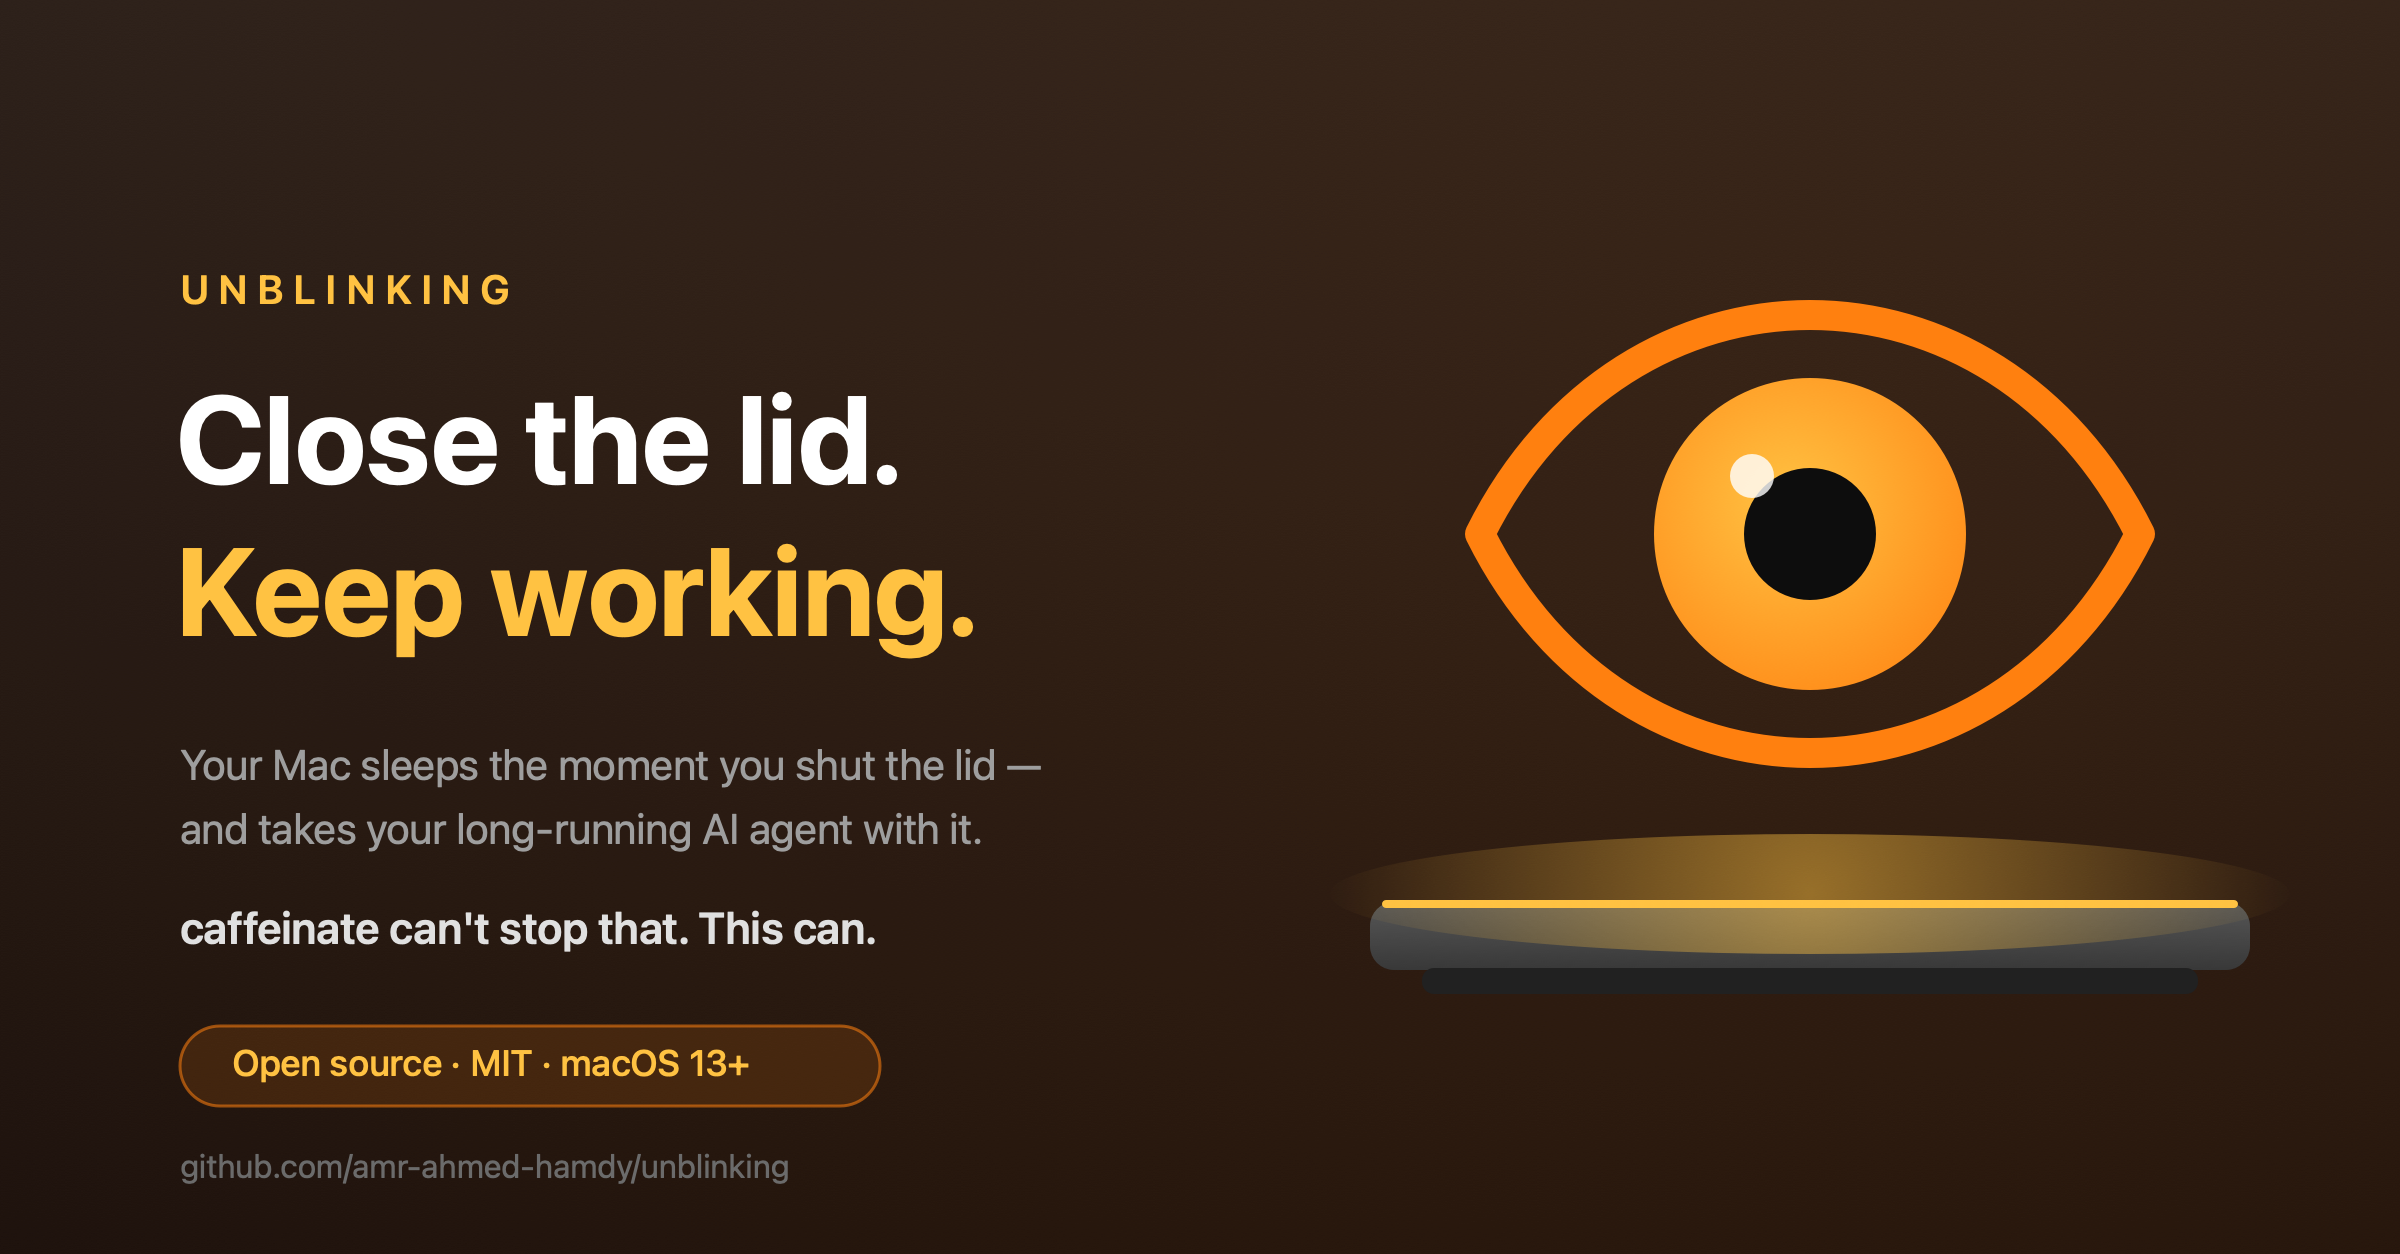
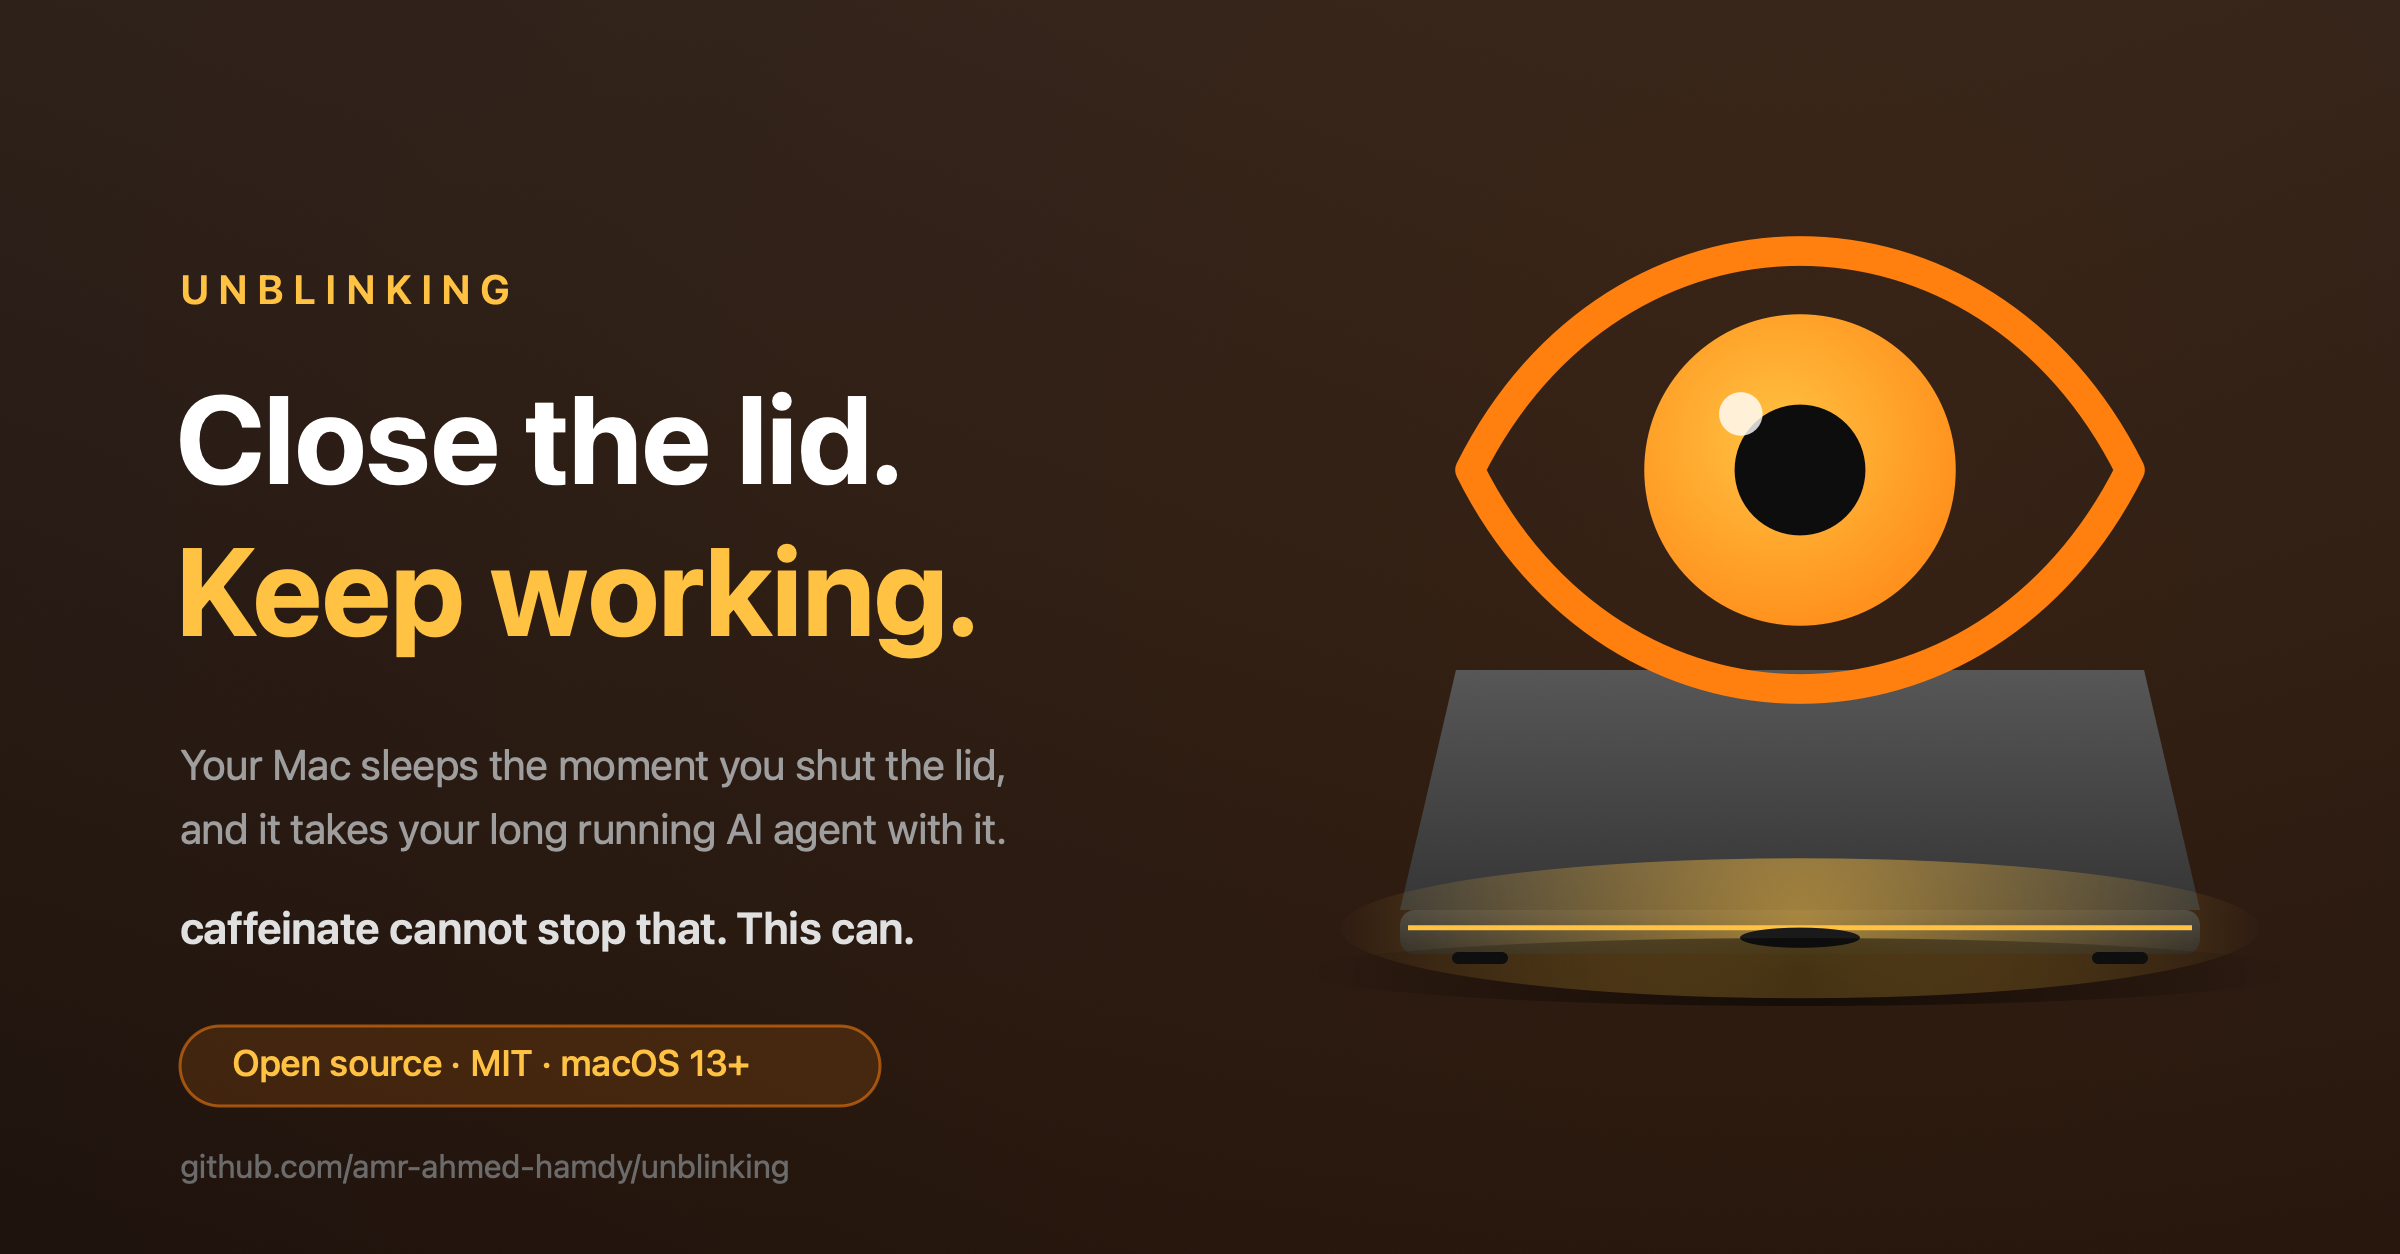
Drop the two minute measurement, and remove dashes from the prose
The published figure was a 156 second run. That proves the mechanism,
the machine slept without the app and did not with it, but says nothing
about endurance, which is what someone running a four hour agent
actually wants to know. Quoting it invites the obvious objection.

Replaced with the method and the qualitative result, plus a pointer to
Scripts/lidtest.sh for a long run. A real figure goes back in once an
endurance run completes.

Also rewrote every sentence that leaned on an em dash, and corrected the
Permissions anchor that the heading change broke. Test count and badge
brought up to 71.

Changed region(s): [[0.5625, 0.1866, 0.9375, 0.8086], [0.1875, 0.7153, 0.375, 0.7775], [0.0938, 0.6531, 0.4375, 0.6842]]

diff --git a/README.md b/README.md
@@ -4,7 +4,7 @@
 
 # Unblinking
 
-**Keep your Mac awake — including with the lid closed.**
+**Keep your Mac awake, including with the lid closed.**
 
 The `caffeinate` command can't do that. This app can.
 
@@ -12,7 +12,7 @@ The `caffeinate` command can't do that. This app can.
 [![Swift](https://img.shields.io/badge/Swift-5.9-F05138?logo=swift&logoColor=white)](https://swift.org)
 [![Apple Silicon](https://img.shields.io/badge/Apple%20Silicon-native-000000?logo=apple&logoColor=white)](https://support.apple.com/en-us/HT211814)
 [![License](https://img.shields.io/badge/License-MIT-blue.svg)](LICENSE)
-[![Tests](https://img.shields.io/badge/tests-67%20passing-brightgreen)](#testing)
+[![Tests](https://img.shields.io/badge/tests-71%20passing-brightgreen)](#testing)
 
 <img src="assets/menu.png" width="480" alt="Unblinking menu bar app showing its menu">
 
@@ -23,7 +23,7 @@ The `caffeinate` command can't do that. This app can.
 ## Why this exists
 
 If you've ever run `caffeinate` in a terminal, closed your MacBook, and come back to find
-your job dead — this is why.
+your job dead, this is why.
 
 **`caffeinate` cannot keep a MacBook awake with the lid closed. It never could.**
 
@@ -39,7 +39,7 @@ The only software override is the system-wide `SleepDisabled` flag, which needs 
 sudo pmset -a disablesleep 1
 ```
 
-Unblinking wraps both mechanisms behind a single eye in your menu bar, and — critically —
+Unblinking wraps both mechanisms behind a single eye in your menu bar and, critically,
 makes sure that flag always gets turned back off.
 
 The second problem it solves is subtler: with `caffeinate` in a terminal, **nothing tells
@@ -53,12 +53,12 @@ that is either shut or wide open removes that entire class of mistake.
 | | |
 |---|---|
 | 👁 **One-click toggle** | Left-click the eye. That's it. |
-| 💤 **Real closed-lid support** | Keeps working when you shut the lid — the thing `caffeinate` can't do |
+| 💤 **Real closed-lid support** | Keeps working when you shut the lid, the thing `caffeinate` can't do |
 | 🔆 **Impossible to miss** | A shut eye when off; an open, breathing eye when on |
 | ⏱ **Timed sessions** | 15m / 30m / 1h / 2h / 4h / indefinitely, with a live countdown |
 | 🔋 **Battery guards** | Never / turn off when unplugged / turn off below a threshold |
 | ⚠ **Stray process detection** | Finds `caffeinate` started elsewhere and lets you stop it |
-| 🔒 **Minimal privileges** | One admin prompt, ever — scoped to exactly two commands |
+| 🔒 **Minimal privileges** | One admin prompt, ever, scoped to exactly two commands |
 | 🧹 **Never leaves a mess** | Cleans up on quit, on crash, and on next launch |
 | 🚀 **Launch at login** | Modern `SMAppService` registration |
 | ♿ **Considerate** | Menu bar item is labelled for VoiceOver and reports its state; respects Reduce Motion |
@@ -74,7 +74,7 @@ that is either shut or wide open removes that entire class of mistake.
 
 The states are deliberately lopsided. Off is a monochrome *template* image, so macOS tints
 it like every other menu bar icon and it recedes. The active states are full colour with a
-halo that breathes — motion catches peripheral vision, which is exactly what you need when
+halo that breathes. Motion catches peripheral vision, which is exactly what you need when
 you've forgotten it's running.
 
 Urgency is carried by colour *and* tempo. Ordinary awake breathes orange over three
@@ -82,7 +82,7 @@ seconds; closed-lid mode breathes red in half that time, because it is the state
 disables system sleep outright and can flatten a battery in a closed bag.
 
 The eye deliberately never blinks. A shut-eye frame is pixel-for-pixel the off state, so a
-blinking icon would flash "asleep" every few seconds — precisely the confusion this app
+blinking icon would flash "asleep" every few seconds, precisely the confusion this app
 exists to remove.
 
 ### Choosing how loud it is
@@ -97,7 +97,7 @@ icon** offers three levels. Each adds exactly one signal to the one before it:
 | **Vivid** *(default)* | shut eye | orange eye, breathing | red eye, breathing at 2× |
 
 Subtle is a monochrome template image throughout, so macOS tints it exactly like every
-other menu bar icon — pick it if you want Unblinking to disappear into the bar. Vivid is
+other menu bar icon. Pick it if you want Unblinking to disappear into the bar. Vivid is
 the default because the app exists to stop you forgetting.
 
 **Reduce Motion overrides the choice.** If it's enabled in System Settings › Accessibility,
@@ -110,13 +110,13 @@ wins.
 
 Requires **macOS 13 (Ventura) or later**. Apple Silicon and Intel both supported.
 
-### Option A — download the release
+### Option A: download the release
 
 1. Download `Unblinking.dmg` from [Releases](https://github.com/amr-ahmed-hamdy/unblinking/releases)
 2. Open the DMG and drag **Unblinking** into **Applications**
 3. Eject the DMG, then open **Unblinking** from Applications
 4. An eye appears at the right-hand end of your menu bar. There is no Dock icon and no
-   window — the menu bar is the whole app
+   window. The menu bar is the whole app
 
 > [!IMPORTANT]
 > **Unblinking is not notarized**, so macOS will say it "cannot be opened because Apple
@@ -125,22 +125,22 @@ Requires **macOS 13 (Ventura) or later**. Apple Silicon and Intel both supported
 >
 > Two ways past it, once:
 >
-> **Terminal** — fastest, and this is a terminal-shaped audience:
+> **Terminal.** Fastest, and this is a terminal shaped audience:
 >
 > ```bash
 > xattr -dr com.apple.quarantine /Applications/Unblinking.app
 > ```
 >
-> **Or the GUI** — **System Settings › Privacy & Security**, scroll to Security, click
+> **Or the GUI**: **System Settings › Privacy & Security**, scroll to Security, click
 > **Open Anyway** next to the Unblinking message, then confirm. macOS 15 removed the old
 > right-click → Open shortcut, so this is the only clickable route.
 >
 > What that flag actually is: macOS tags *downloaded* files with `com.apple.quarantine`,
 > and Gatekeeper's dialog fires on that tag alone. Removing it is exactly what "Open
-> Anyway" does. Apps you build yourself are never tagged — which is why **Option B below
+> Anyway" does. Apps you build yourself are never tagged, which is why **Option B below
 > has no Gatekeeper step at all.**
 
-### Option B — build it yourself (no Gatekeeper prompt)
+### Option B: build it yourself (no Gatekeeper prompt)
 
 Requires **Xcode 16 or later** (developed on Xcode 26.4 / macOS 26.2). Locally built apps
 are never quarantined, so this path just works.
@@ -156,12 +156,12 @@ That builds a Release copy, installs it to `/Applications`, and launches it. Or 
 
 ### First run
 
-**Basic keep-awake works immediately** — click the eye and it goes orange. No permissions,
+**Basic keep awake works immediately.** Click the eye and it goes orange. No permissions,
 no setup.
 
 **Closed-lid mode needs one administrator prompt.** Right-click the eye and tick
 **Keep Awake With Lid Closed**. macOS asks for your password once; after that it's silent
-forever. See [Permissions](#permissions--exactly-what-gets-installed) for exactly what that
+forever. See [Permissions](#permissions-exactly-what-gets-installed) for exactly what that
 installs and how to remove it.
 
 **To start it automatically**, open **Settings › General** and tick **Launch Unblinking at
@@ -192,13 +192,13 @@ backups, a server on your desk, remote sessions you're SSH'd into.
 
 > [!WARNING]
 > With closed-lid mode on, your Mac **will not sleep**. On battery, in a closed bag, it will
-> run until flat and get hot. The default battery policy is *Never turn off automatically* —
+> run until flat and get hot. The default battery policy is *Never turn off automatically*,
 > the app warns you but respects your choice. Change it in Settings › Closed Lid if you'd
 > rather it protected you.
 
 ---
 
-## Permissions — exactly what gets installed
+## Permissions: exactly what gets installed
 
 Disabling lid-close sleep needs root. Rather than asking for your password every single
 time, Unblinking asks **once** and installs a `sudoers` drop-in scoped to two exact
@@ -210,8 +210,8 @@ commands:
 <you> ALL=(root) NOPASSWD: /usr/bin/pmset -a disablesleep 0, /usr/bin/pmset -a disablesleep 1
 ```
 
-That's the whole grant. No wildcards. Every other `pmset` subcommand — and every other
-command on your system — still requires a password. There's a test that proves it:
+That's the whole grant. No wildcards. Every other `pmset` subcommand, and every other
+command on your system, still requires a password. There's a test that proves it:
 
 ```bash
 sudo -n /usr/bin/pmset -a disablesleep 1   # allowed
@@ -240,16 +240,16 @@ the app works with zero privileges.
 <img src="assets/settings-closed-lid.png" width="410" alt="Closed Lid settings tab">
 </div>
 
-**General** — launch at login, default duration, restore state at launch, **menu bar icon
+**General**: launch at login, default duration, restore state at launch, **menu bar icon
 style**, and elapsed/remaining time in the menu bar.
 
-**Sleep** — which assertions to hold: display (`-d`), idle system (`-i`), disk (`-m`),
+**Sleep**: which assertions to hold: display (`-d`), idle system (`-i`), disk (`-m`),
 system-while-on-power (`-s`).
 
-**Closed Lid** — enable/disable, live "would closing the lid sleep this Mac?" status,
+**Closed Lid**: enable/disable, live "would closing the lid sleep this Mac?" status,
 battery policy, and permission management (view the exact rule, or remove it).
 
-**About** — version and links.
+**About**: version and links.
 
 ---
 
@@ -268,7 +268,7 @@ Two independent layers:
 that clears it:
 
 - turning off, session timeout, Quit, logout, `SIGTERM`/`SIGINT`
-- **at next launch** — the backstop for `kill -9`, a kernel panic or power loss. If the flag
+- **at next launch**, the backstop for `kill -9`, a kernel panic or power loss. If the flag
   is still set, the app either clears it silently (its own breadcrumb says it was the owner)
   or asks you first (something else set it)
 
@@ -278,7 +278,7 @@ and exits the moment the app does. **A crashed app cannot leave one running.**
 ### Stray processes
 
 The menu reports `caffeinate` processes started outside the app and lets you stop them
-individually. It never bulk-kills — plenty of tools spawn `caffeinate` legitimately (the
+individually. It never bulk kills, because plenty of tools spawn `caffeinate` legitimately (the
 `claude` CLI runs `caffeinate -i -t 300`, for one), and silently killing someone else's
 assertion would break their work.
 
@@ -298,7 +298,7 @@ assertion would break their work.
 | `LoginItem.swift` | Launch at login via `SMAppService` |
 | `SettingsView.swift` | Settings UI |
 
-`PrivilegedRunner` is a protocol — the sudoers implementation is one conforming type, and an
+`PrivilegedRunner` is a protocol. The sudoers implementation is one conforming type, and an
 `SMAppService` root daemon could replace it without touching call sites.
 
 Built on `NSStatusItem` rather than SwiftUI's `MenuBarExtra`, because `MenuBarExtra` opens
@@ -322,13 +322,13 @@ for a command that needs none. To test a grant, exercise it.
 
 **3. `AppleClamshellCausesSleep` is not a forecast.** It reads like the perfect answer to
 "will closing the lid sleep this Mac?" but doesn't vary with `SleepDisabled` at all while
-the lid is open — it describes the *current* clamshell state, not a future one.
+the lid is open. It describes the *current* clamshell state, not a future one.
 
 ---
 
 ## Testing
 
-67 tests, run against the real system rather than mocks — real `caffeinate` processes, real
+71 tests, run against the real system rather than mocks: real `caffeinate` processes, real
 `pmset` output, real signals.
 
 ```bash
@@ -351,27 +351,30 @@ pmset -g live | grep SleepDisabled      # 1 while closed-lid mode is on
 sudo -l                                 # the grant is only those two commands
 ```
 
-The end-to-end test nothing substitutes for:
+The end to end test nothing substitutes for:
 
 ```bash
-while true; do date >> ~/lidtest.log; sleep 5; done
+./Scripts/lidtest.sh            # start, then close the lid
+./Scripts/lidtest.sh --report   # after you reopen
 ```
 
-Turn on closed-lid mode, shut the lid for two minutes, reopen. Unbroken five-second entries
-across the closed period means it works. Repeat with closed-lid mode **off** and the log
-should show a gap — proving the feature is what's doing the work, not something incidental.
+It records a heartbeat every 30 seconds alongside battery, power source and thermal state,
+so a long run can be checked for gaps and for the things a short run cannot surface: drain,
+throttling, or macOS sleeping anyway after some delay. Plug in first. An unattended closed
+laptop on battery is how you flatten one.
 
-**Measured on a MacBook Air (M1), macOS 26.2, on battery:**
+Run it once with closed-lid mode **on** and once with it **off**. Without that second run,
+an absent gap could just mean the machine never tried to sleep, so the negative control is
+what makes the result mean anything.
 
-| | Lid closed, app off | Lid closed, closed-lid mode on |
-|---|---|---|
-| Gap in the log | **68 s** | **none** (156 s elapsed, 155 s ticking) |
-| `Clamshell Sleep` in `pmset -g log` | 1 | 0 |
-| Wake event | `DriverReason:lid` | none — nothing slept |
+Cross-check any gap against `pmset -g log`. The kernel records
+`Entering Sleep state due to 'Clamshell Sleep'` with a timestamp, so you can confirm a gap
+is genuine sleep rather than a stalled shell.
 
-Cross-check the log gap against `pmset -g log`; the kernel records
-`Entering Sleep state due to 'Clamshell Sleep'` with a timestamp, so you can confirm the
-gap is real sleep rather than a stalled shell.
+Verified on a MacBook Air (M1), macOS 26.2: with closed-lid mode off the machine slept the
+moment the lid shut and the kernel logged it. With closed-lid mode on it kept running and
+logged no sleep at all. A longer endurance run is under way and the figure will be
+published here once it finishes.
 
 ---
 
@@ -389,7 +392,7 @@ the script header.
 
 ## Contributing
 
-Contributions are genuinely welcome — this is a small, focused codebase that's easy to get
+Contributions are genuinely welcome. This is a small, focused codebase that's easy to get
 into.
 
 1. Fork the repo and create a branch: `git checkout -b feature/your-idea`
@@ -416,23 +419,23 @@ version, your Mac model, and what you expected.
 
 If Unblinking saved you from a dead build or a flat battery:
 
-⭐ **[Star the repo](https://github.com/amr-ahmed-hamdy/unblinking)** — the single most useful thing
+⭐ **[Star the repo](https://github.com/amr-ahmed-hamdy/unblinking)**, the single most useful thing
 you can do. It's how other people find it.
 
-🔧 **Contribute** — pick something from the list above, or bring your own idea. PRs get
+🔧 **Contribute**: pick something from the list above, or bring your own idea. PRs get
 reviewed properly.
 
-🐛 **[Report a bug](https://github.com/amr-ahmed-hamdy/unblinking/issues)** — especially anything
+🐛 **[Report a bug](https://github.com/amr-ahmed-hamdy/unblinking/issues)**, especially anything
 involving sleep behaviour on hardware I can't test.
 
-🗣 **Tell someone** — if you know a developer who's lost a job to a closed lid, they'll want
+🗣 **Tell someone.** If you know a developer who's lost a job to a closed lid, they'll want
 this.
 
 ---
 
 ## Author
 
-**Amr Ahmed Hamdy** — Senior Software Engineer, AI-Driven Development
+**Amr Ahmed Hamdy**, Senior Software Engineer, AI Driven Development
 
 [![LinkedIn](https://img.shields.io/badge/LinkedIn-amr--hamdy-0A66C2?logo=linkedin&logoColor=white)](https://www.linkedin.com/in/amr-hamdy/)
 
